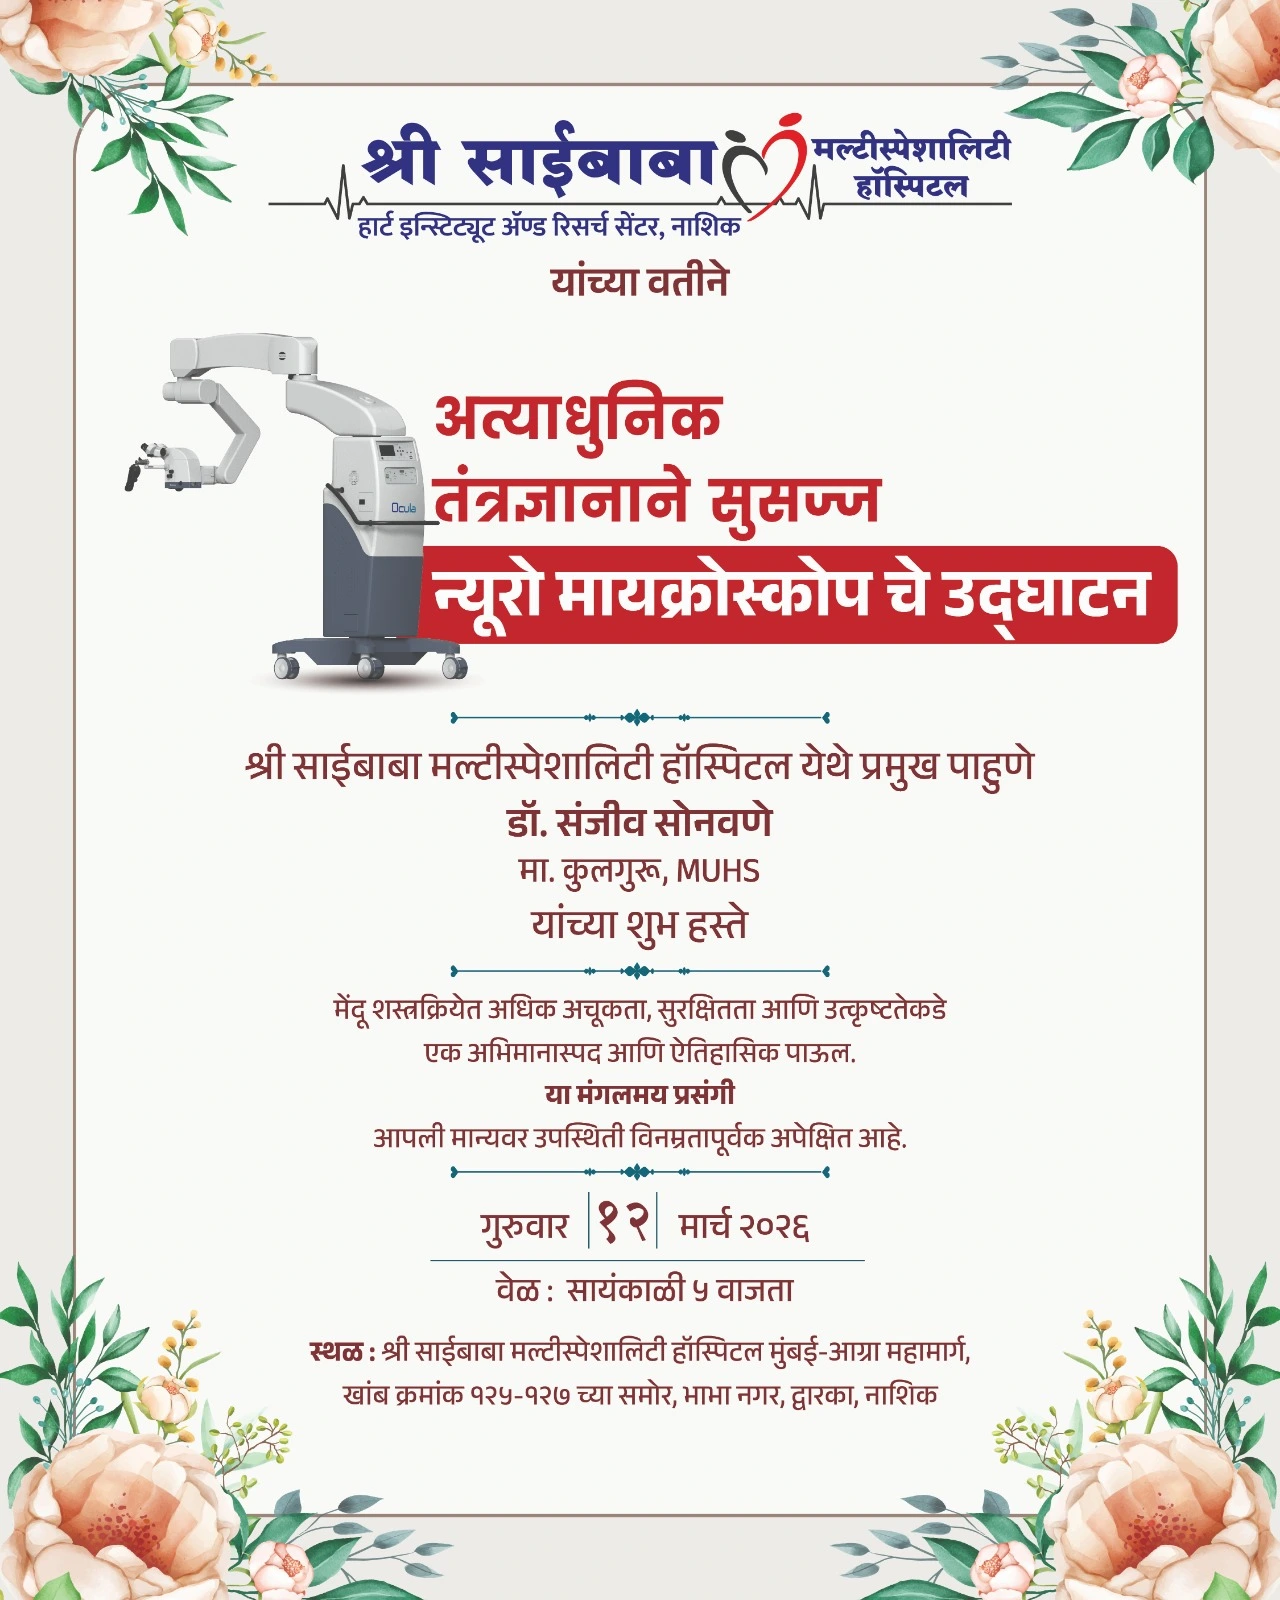
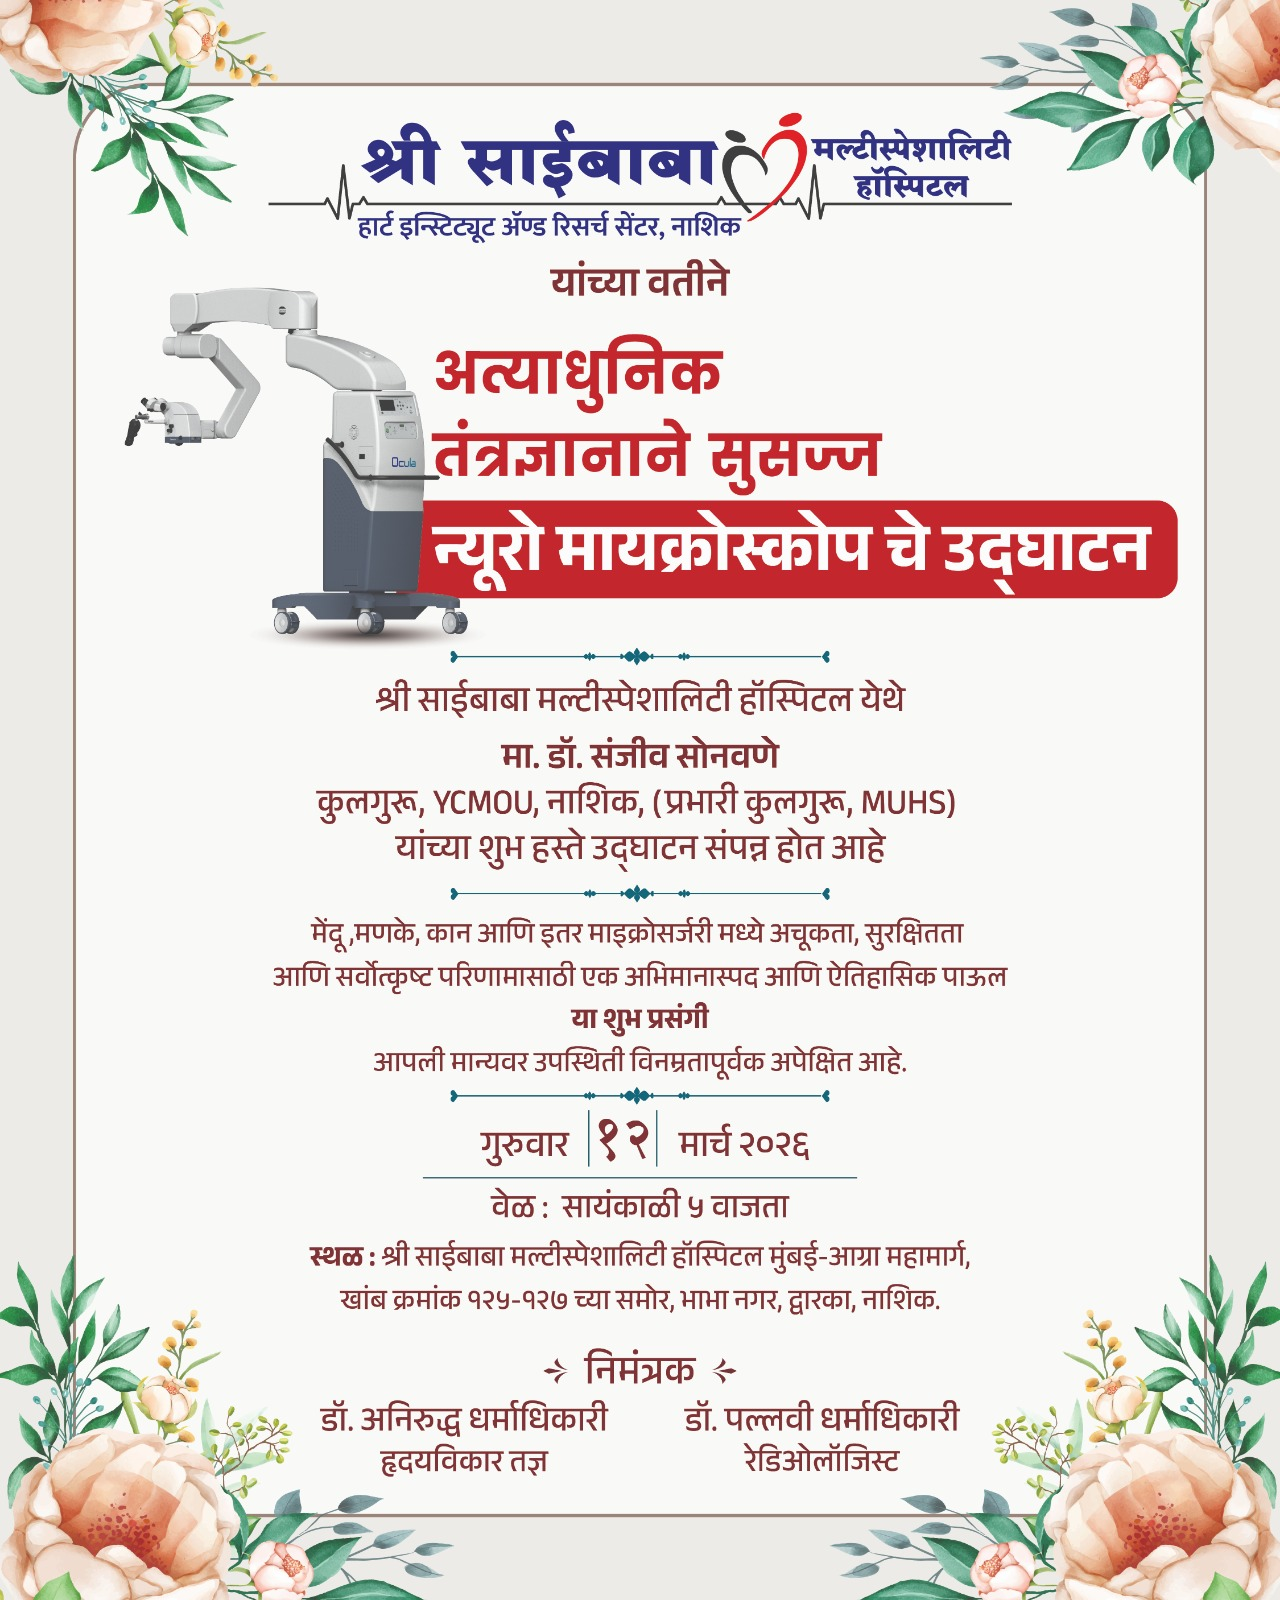
Added pop up on home screen and update about page content

Changed region(s): [[0.0938, 0.1562, 0.9375, 0.9375]]

diff --git a/src/About.jsx b/src/About.jsx
@@ -291,54 +291,33 @@ function About() {
               <div style={infoInnerStyle}>
                 <p style={infoParagraphStyle}>
                   <h1 style={{ color: "white" }}>About us</h1> <br />
-                  Saibaba Heart Institute & Multispecialty Hospital is the best multispecialty
-                  hospital in Nashik and also the best hospital in Northern Maharashtra. Families
-                  have trusted Saibaba & their staff for compassionate, ethical, and cutting-edge
-                  medical care since they opened their doors. Every time a person comes to Saibaba
-                  Heart Institute & Multispecialty Hospital, we treat every patient like a member
-                  of our family by providing clear and honest guidance, advice, and treatment at
-                  the appropriate time.
+                  Saibaba Heart Institute & Multispecialty Hospital is one of the leading multispecialty
+                  hospitals in Nashik. Families in Nashik and North Maharashtra rely on us for high-quality,
+                  ethical, and compassionate medical care. Our multispecialty hospital in Nashik offers
+                  the best cardiology, orthopedic, spine, and emergency care services using the latest
+                  technology and expertise of experienced medical professionals.
                 </p>
 
                 <p style={infoParagraphStyle}>
-                  Saibaba Heart Institute & Multispecialty Hospital is a leading cardiac hospital
-                  in Nashik and a leading orthopaedic and spine care hospital in North Maharashtra.
-                  Our goal is to ensure that our patients receive world-class treatment at affordable
-                  prices. Our patients don't have to go too far to receive world-class treatment. We
-                  have modern equipment and a caring environment to ensure healing for both body and mind.
+                  Being a multispecialty cardiac hospital in Nashik, Saibaba Heart Institute offers expert
+                  medical care for various heart and cardiac issues. We provide the best cardiology services
+                  in Nashik, including the prevention of heart and cardiac issues. We have expertise in
+                  providing the best orthopedic and spine services in Nashik. Our multispecialty hospital
+                  in Nashik offers the best orthopedic and spine services using the latest technology and
+                  expertise of experienced medical professionals.
                 </p>
 
                 <p style={infoParagraphStyle}>
-                  At our hospital, our patients receive a full gamut of medical services under one
-                  roof. We are a top heart hospital in Nashik, and our expertise in the field of
-                  heart diseases, preventive cardiology, and cardiac procedures is unparalleled.
-                  Along with this, our orthopaedic department provides specialised care for injuries,
-                  joint problems, spine conditions, robotic joint replacement in Nashik, minimally
-                  invasive orthopaedic procedures, and rehabilitation.
-                </p>
-
-                <p style={infoParagraphStyle}>
-                  Saibaba Hospital in Nashik is a 24-hour emergency hospital with extremely accurate
-                  diagnostic imaging, state-of-the-art surgical facilities, and a team of doctors
-                  available round the clock. We are a multispecialty hospital located near your home
-                  in Nashik. We provide all our services under one roof with no waiting time for our
-                  patients. We provide cardiology, orthopaedics, diagnostics, emergency services, and
-                  speciality vision.
-                </p>
-
-                <p style={infoParagraphStyle}>
-                  What truly sets us apart from other multispecialty hospitals in Nashik is our people.
-                  Our doctors, nurses, and staff at Saibaba Heart Institute & Multispeciality Hospital
-                  believe that healing starts with kindness, listening, and respect. That is why Saibaba
-                  Hospital in Nashik has always been recognised as one of the top multispecialty
-                  hospitals in Nashik for cardiac and orthopaedic care. We are recognised for our
-                  compassion.
+                  Being a multispecialty emergency hospital in Nashik, we provide the best emergency services
+                  in Nashik. Our multispecialty emergency hospital in Nashik is equipped with the latest diagnostic
+                  imaging equipment and has experienced medical professionals available round the clock. Our
+                  multispecialty hospital in Nashik offers the best healthcare services in Nashik.
                 </p>
 
                 <p style={infoParagraphStyle}>
                   <b>Our Promise:</b> <br />
-                  We commit to offering contemporary, low-budget, patient-centred health care services to 
-                  our customers. We will evolve into a Centre of Excellence in Nashik, building a reputation 
+                  We commit to offering contemporary, low-budget, patient-centred health care services to
+                  our customers. We will evolve into a Centre of Excellence in Nashik, building a reputation
                   for providing exemplary health care in the area.
                 </p>
               </div>
